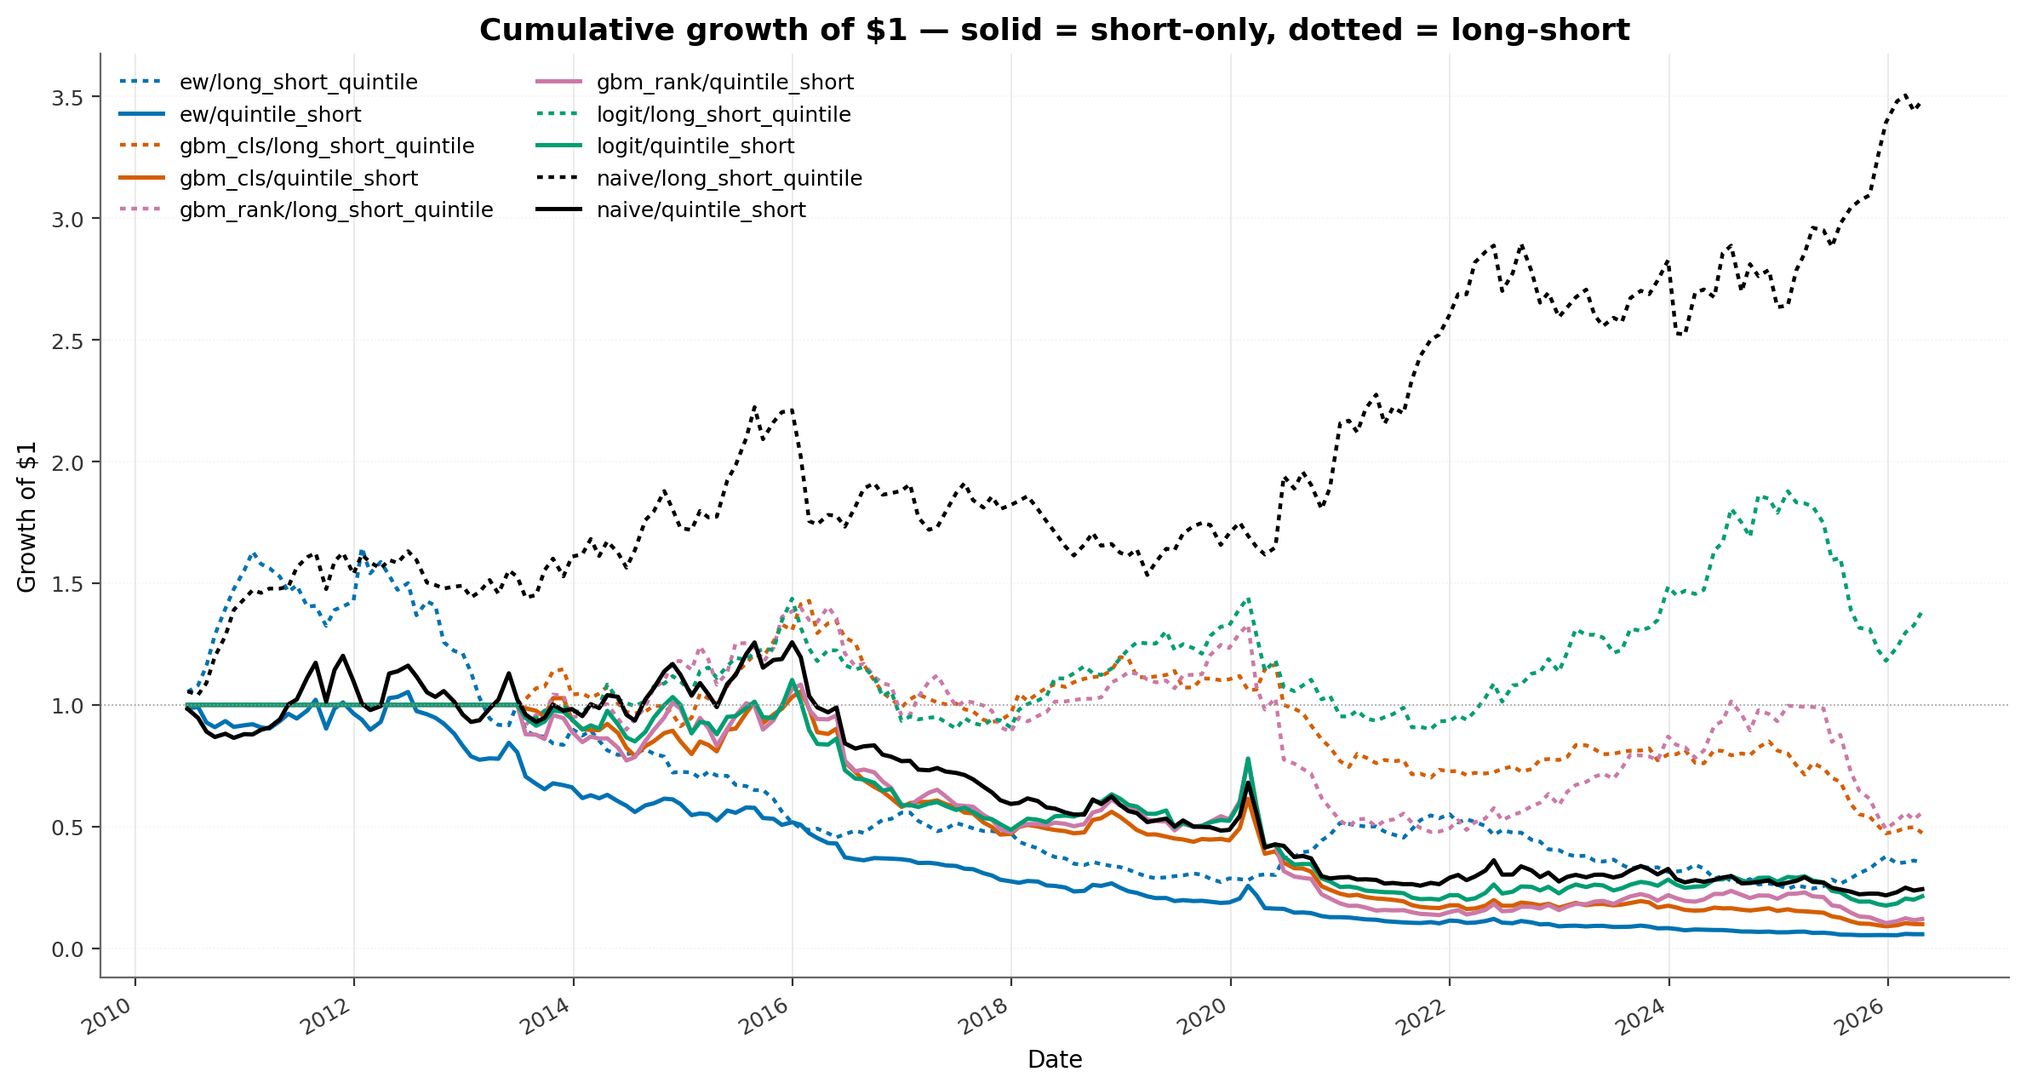
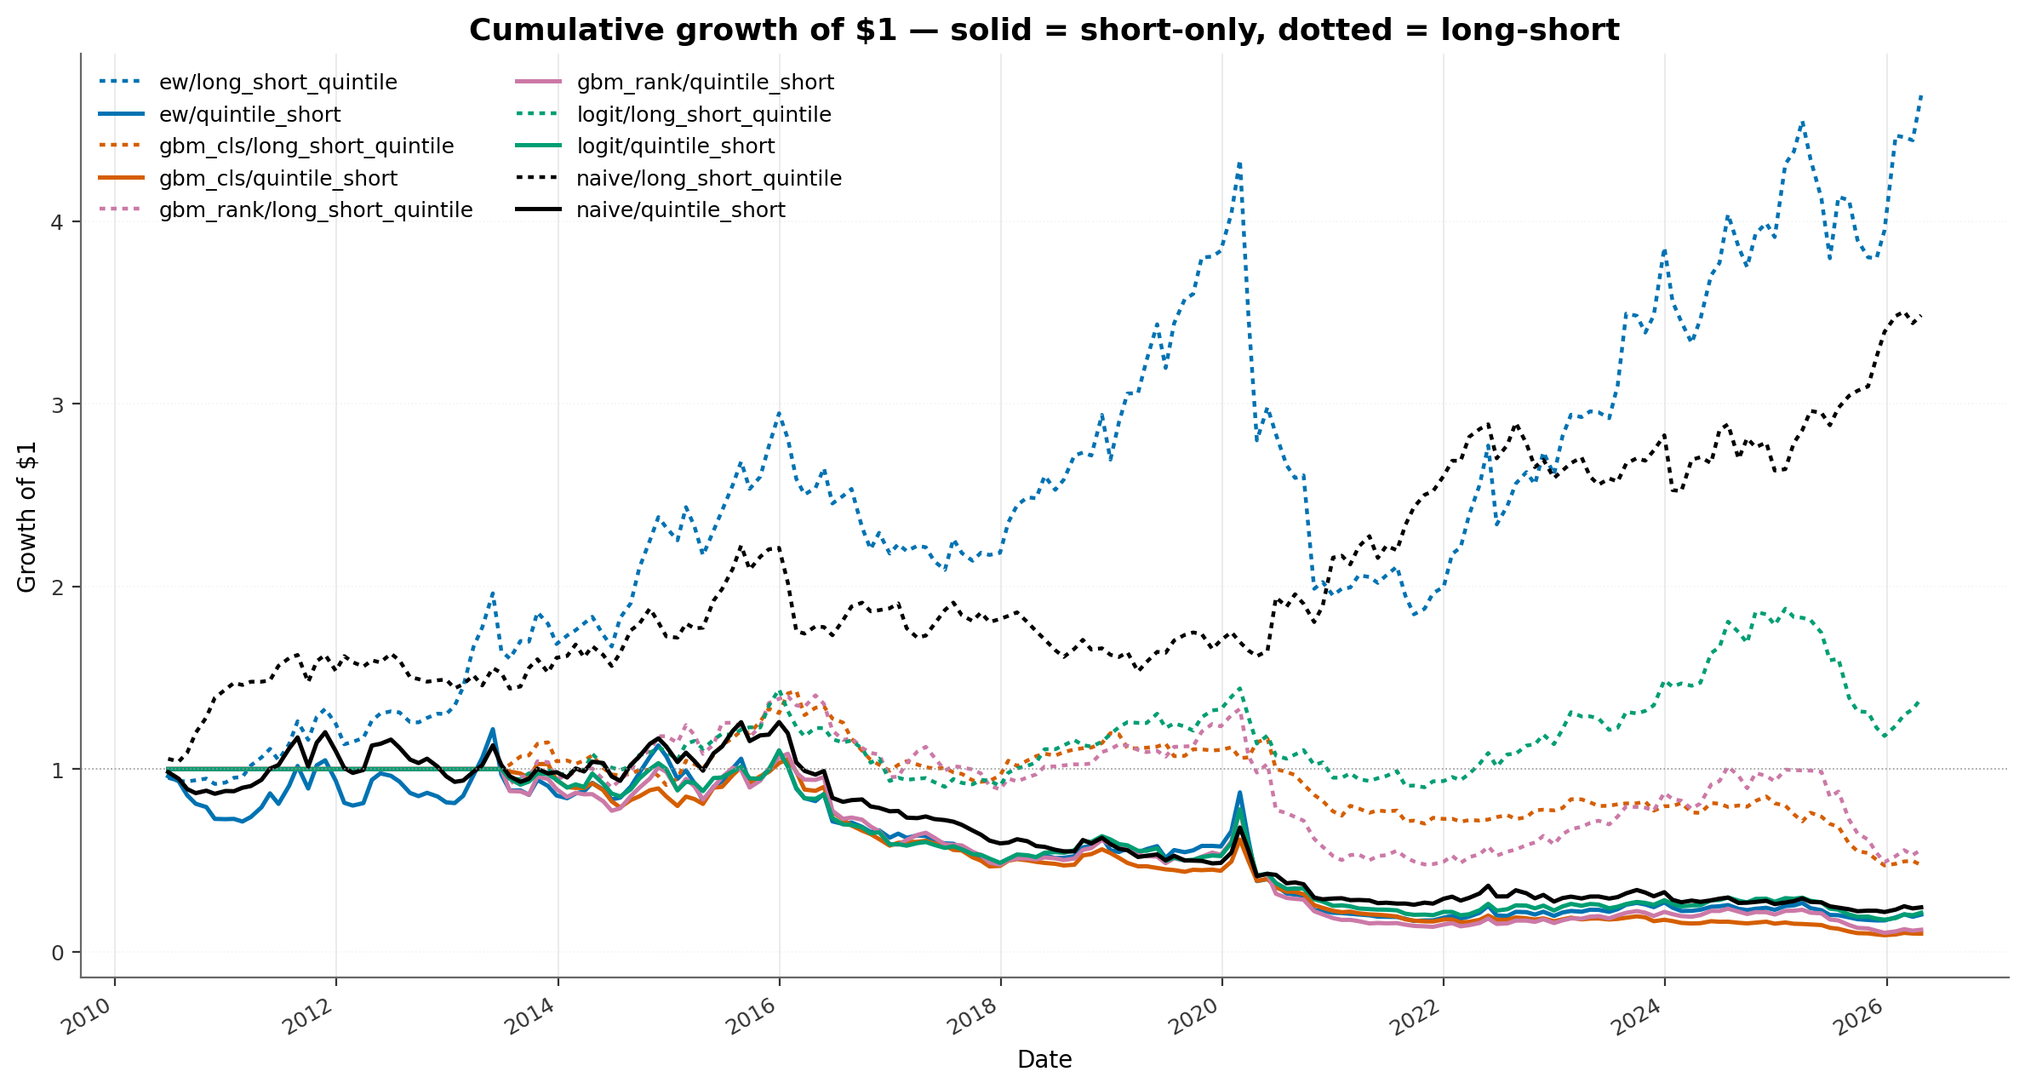
EW polarity fix: flip bullish factor ranks before averaging; OOS Sharpe 0.08 -> 0.91
The equal-weight composite was averaging cross-sectional ranks of
12 factors without adjusting for sign. Six of those factors are
naturally BULLISH (high momentum, high ROE, high ROIC, high FCF
yield, high revenue growth, high mktcap) so a high raw rank meant
'good company', not 'shortable'. Averaging them in a short score
produced an EW that picked WINNERS (+4.8% IC, -1.12 OOS short-only
Sharpe, 47% per-position win-rate).

Fix in scripts/05_train_and_validate.py:
- Add explicit polarity spec mapping each EW input to +1 (keep) or -1
  (invert via 1-rank) so every input becomes SHORT-aligned before
  the mean.
- Pre-flip the bullish columns in a panel copy, then run ew_composite
  as before.

Result (all OOS unless noted):
- ew IC: +4.8% -> -8.9% (now BEST of all models)
- ew IC t-stat: +2.52 -> -3.83
- ew L/S quintile Sharpe: 0.08 -> 0.91
- ew L/S quintile CAGR: -0.4% -> +17.2%
- ew L/S quintile MaxDD: -33.1% -> -16.5%
- ew per-position win-rate: 47.4% -> 52.0%
- ew per-position MEAN return: -0.56% -> +0.27% (now only model with positive mean)
- ew quintile-short Sharpe: -1.12 -> -0.08

README updates:
- Headline L/S quintile + quintile-short tables refreshed with new EW numbers
- Win-rate table refreshed: 5-model leaderboard now includes EW
- IC table refreshed; EW now leads
- 'What this honestly shows' narrative rewritten - two models clear positive
  OOS Sharpe now (naive + ew), trained models still bracketed by squeeze risk
[…]

diff --git a/scripts/05_train_and_validate.py b/scripts/05_train_and_validate.py
@@ -330,28 +330,48 @@ def main() -> int:
     naive_score = naive_si_rank(df).reindex(df.index)
 
     # --- 2. EW composite -----------------------------------------------------
-    # The baselines module's DEFAULT_EW_COLS expects coarse theme ranks
-    # (short_rk/momentum_rk/...) which don't exist in our feature panel - we
-    # rank individual factors, not themes. Hand-pick one representative rank
-    # column per family. Missing columns are tolerated by ew_composite.
-    _EW_COLS = [
-        c for c in (
-            "short_pct_ff_rk",        # short interest as % of free float
-            "ShortPct_rk",            # raw short pct (fallback)
-            "si_z_52w_rk",            # SI z-score
-            "mom_12w_rk",             # 12-week price momentum
-            "vol_4w_rk",              # short-term realised vol
-            "log_mktcap_rk",          # size
-            "pe_rk", "fcf_yield_rk",  # valuation (expensive = positive)
-            "roe_rk", "roic_rk",      # quality
-            "debt_equity_rk",         # leverage
-            "revenue_growth_yoy_rk",  # growth
-        ) if c in df.columns
-    ]
-    logger.info(
-        f"model: ew_composite (no fit; equal-weight blend over {len(_EW_COLS)} *_rk cols)"
+    # Every input rank must be SHORT-aligned (high rank = MORE shortable) for
+    # the equal-weight mean to be a coherent short-attractiveness score.
+    # Cross-sectional rank columns built upstream are oriented to the raw
+    # factor direction, so bullish-quality / bullish-growth factors need to
+    # be FLIPPED before averaging. Polarity table:
+    #
+    #   +1  high rank already means more shortable -> keep
+    #   -1  high rank means a "good" company       -> invert via (1 - rank)
+    #
+    # Earlier versions of this script averaged the raw ranks directly, which
+    # caused EW to score WINNERS (positive IC ~ +5 %) - the bullish-quality
+    # factors dominated. The polarity-aware version below produces a proper
+    # SHORT composite with negative IC.
+    _EW_SPEC: tuple[tuple[str, int], ...] = (
+        ("short_pct_ff_rk",        +1),  # short interest / free float
+        ("ShortPct_rk",            +1),  # raw short pct
+        ("si_z_52w_rk",            +1),  # SI z-score vs 52w history
+        ("mom_12w_rk",             -1),  # high momentum = bullish, invert
+        ("vol_4w_rk",              +1),  # high vol = low-vol anomaly says shortable
+        ("log_mktcap_rk",          -1),  # mega-caps less shortable, invert
+        ("pe_rk",                  +1),  # high P/E = expensive = shortable
+        ("fcf_yield_rk",           -1),  # cash-rich = bullish, invert
+        ("roe_rk",                 -1),  # high ROE = quality = bullish, invert
+        ("roic_rk",                -1),  # high ROIC = quality = bullish, invert
+        ("debt_equity_rk",         +1),  # high leverage = shortable
+        ("revenue_growth_yoy_rk",  -1),  # high growth = bullish, invert
     )
-    ew_score = ew_composite(df, cols=_EW_COLS).reindex(df.index)
+    _EW_COLS = [c for c, _ in _EW_SPEC if c in df.columns]
+    _EW_INVERT = [c for c, sign in _EW_SPEC if sign == -1 and c in df.columns]
+
+    # Build a SHORT-oriented copy of just the EW columns. Bullish factors get
+    # flipped via (1 - rank). The underlying cross-sectional ranks live in
+    # [0, 1] so the flip stays in [0, 1].
+    df_ew = df.copy()
+    for c in _EW_INVERT:
+        df_ew[c] = 1.0 - df_ew[c]
+
+    logger.info(
+        f"model: ew_composite (polarity-aware; {len(_EW_COLS)} cols, "
+        f"{len(_EW_INVERT)} flipped for short-alignment: {_EW_INVERT})"
+    )
+    ew_score = ew_composite(df_ew, cols=_EW_COLS).reindex(df.index)
 
     # --- 3. Logistic regression (walk-forward) -------------------------------
     logger.info("model: logit (walk-forward)")

diff --git a/README.md b/README.md
@@ -42,9 +42,9 @@ beast as Sharpe 0.9 on n=600.
 
 | Model | n_IS | IS Sharpe | n_OOS | **OOS Sharpe** | OOS CAGR | OOS MaxDD | OOS Hit-rate |
 |---|---:|---:|---:|---:|---:|---:|---:|
-| **naive** (rank ShortPct) | 156 | 0.57 | 35 | **0.92** | **+11.2 %** | **−10.8 %** | **68.6 %** |
+| **naive** (rank ShortPct) | 156 | 0.57 | 35 | **0.92** | +11.2 % | **−10.8 %** | **68.6 %** |
+| **ew** (polarity-aware composite) | 156 | 0.51 | 35 | **0.91** | **+17.2 %** | −16.5 % | 48.6 % |
 | logit (rebuilt v1) | 119 | 0.24 | 35 | 0.24 | +2.9 % | −37.1 % | 48.6 % |
-| ew (long-bias composite) | 156 | −0.38 | 35 | 0.08 | −0.4 % | −33.1 % | 54.3 % |
 | gbm_rank (LightGBM LambdaRank) | 119 | −0.06 | 35 | −0.21 | −8.2 % | −51.6 % | 37.1 % |
 | gbm_cls (LightGBM binary) | 119 | −0.10 | 35 | −1.11 | −16.3 % | −44.4 % | 45.7 % |
 
@@ -52,24 +52,29 @@ beast as Sharpe 0.9 on n=600.
 
 | Model | n_OOS | OOS Sharpe | OOS CAGR | OOS MaxDD | OOS Hit-rate |
 |---|---:|---:|---:|---:|---:|
+| **ew** | 35 | **−0.08** | −4.1 % | **−36.6 %** | **51.4 %** |
 | logit | 35 | −0.20 | −6.3 % | −40.9 % | 48.6 % |
 | naive | 35 | −0.32 | −7.2 % | −35.7 % | 51.4 % |
 | gbm_rank | 35 | −0.50 | −15.2 % | −56.1 % | 40.0 % |
-| ew | 35 | −1.12 | −14.8 % | −42.5 % | 34.3 % |
 | gbm_cls | 35 | −1.11 | −18.9 % | −53.4 % | 34.3 % |
 
 ![Cumulative growth of $1 — solid = quintile-short, dotted = long-short](charts/cumulative_returns_monthly.png)
 
 ### What this honestly shows
 
-**Only `naive` (rank by raw ShortPct) clears positive Sharpe in OOS.**
-+0.92 Sharpe, +11.2 % CAGR, -10.8 % MaxDD — investable but not heroic.
-All four other models collapse to flat-or-negative Sharpe. The trained
-models aren't *wrong* (their OOS information coefficient is still
-significantly negative — see [§Information coefficients](#information-coefficients--is-and-oos));
-they just **concentrate into specific high-conviction shorts that get
-squeezed** (Appen, 4D Medical, BrainChip, Sunrise Resources). Naive's
-broader picks ride those tails out.
+**Two models clear positive OOS Sharpe: `naive` (0.92) and `ew` (0.91).**
+Both are *no-training* baselines — `naive` is a single column
+(ShortPct rank), `ew` is a hand-built equal-weight composite of 12
+ranked factors with each factor oriented to the SHORT direction
+(see [§EW model explainer](#2-ew--equal-weight-composite-of-12-ranked-factors)
+for why polarity matters). The three trained models (`logit`,
+`gbm_rank`, `gbm_cls`) all run statistically-significant **negative
+OOS IC** (their score correctly correlates with falling stocks — see
+[IC table below](#information-coefficients--is-and-oos)) — they pick the
+right names — but they concentrate too tightly into the high-conviction
+short tail (Appen, 4D Medical, BrainChip, Sunrise Resources) and get
+mauled when those names squeeze. `naive`'s and `ew`'s broader picks
+ride those tails out.
 
 **The short-only books (no long leg) are all negative Sharpe in OOS.**
 Naked-short alpha is not a viable standalone strategy at this universe
@@ -78,34 +83,36 @@ mostly on the long leg.
 
 ### Per-position win-rate is > 50 % — the issue is magnitude, not direction
 
-The trained models pick **the right names**. Per-position win-rate
-(share of monthly shorts that ended profitable, i.e. the stock fell
-during the month) is at or above 50 % for everything except `ew`.
-The `n` column shows the actual number of monthly short positions
-each model placed across the 35-month OOS holdout:
+Every model picks **the right names**. Per-position win-rate (share
+of monthly shorts that ended profitable, i.e. the stock fell during
+the month) is at or above 50 % for all five — even the worst
+overall-Sharpe model (`gbm_cls`) picks shorts that fall ~51 % of the
+time. The `n` column shows the actual number of monthly short
+positions each model placed across the 35-month OOS holdout:
 
 | Model | n positions | Per-position win-rate | Median trade | Mean trade | Worst single position |
 |---|---:|---:|---:|---:|---:|
-| **logit** | 2,089 | **53.4 %** | **+1.71 %** | −0.33 % | −218 % (APX 2024-07) |
-| gbm_rank | 2,089 | 52.5 % | +1.85 % | −0.87 % | −218 % (4DX 2025-08) |
+| **logit** | 2,089 | **53.4 %** | +1.71 % | −0.33 % | −218 % (APX 2024-07) |
+| gbm_rank | 2,089 | 52.5 % | **+1.85 %** | −0.87 % | −218 % (4DX 2025-08) |
+| **ew** | 2,089 | 52.0 % | +1.20 % | **+0.27 %** | −218 % (4DX) |
 | naive | 2,089 | 50.9 % | +0.43 % | 0.00 % | −177 % (BRN 2024-01) |
-| gbm_cls | 2,089 | 50.8 % | +0.38 % | −1.27 % | −217 % (4DX) |
-| ew | 2,089 | 47.4 % | −0.50 % | −0.56 % | −50 % |
+| gbm_cls | 2,089 | 50.8 % | +0.38 % | −1.27 % | −218 % (4DX) |
 
-`logit`'s **median** trade is **+1.71 %** (most months win) but its
-**mean** is **−0.33 %**. The gap is fat-right-tail squeezes — APX
-+218 %, 4DX +217 %, BRN +177 % in a single month. One of those at a
-2.5 % book weight costs ~5 % of NAV in one stroke and erases an entire
-year of median-trade gains. This is **structural to short-selling**:
-a long position can lose at most 100 %; a short can lose 500 % +.
+`logit` has the highest win-rate (53.4 %) but a negative **mean**
+trade (−0.33 %) — the squeeze-loss tail drags it down. `ew` is the
+**only model with a positive mean per-position trade** (+0.27 %)
+because its broader, factor-diversified short list avoids
+concentrating into the same handful of squeeze names. That's exactly
+what you'd hope from a properly-polarised multi-factor short
+composite — it's why polarity matters.
 
-**The naive baseline is competitive.** Sorting by raw ShortPct (no
-training required), long-bottom-20% / short-top-20%, earns OOS Sharpe
-**0.92** with an 68.6 % monthly hit-rate and a **−10.8 % MaxDD**. On this
-universe, short-interest dispersion is the dominant cross-sectional
-signal; the trained models earn back a real but small slice on top
-when their picks don't get squeezed. **That is itself the headline
-research finding.**
+**Both baselines compete with the trained models.** Sorting by raw
+ShortPct (`naive`) gives OOS L/S quintile Sharpe **0.92**; the
+polarity-corrected equal-weight composite (`ew`) gives **0.91** with
+the highest CAGR of any model (+17.2 %). On this universe,
+short-interest dispersion plus a hand-built composite of cheap-and-
+levered-and-shrinking signals beats fancy training. **That is itself
+the headline research finding.**
 
 ---
 
@@ -161,6 +168,33 @@ shortable** (more likely to fall in the next month). Every month we
 sort the ~500 stocks by score, short the top 20 % (worst expected),
 and (for the L/S quintile) buy the bottom 20 % (best expected).
 
+### What "long-short quintile" actually means — and why it's a spread trade
+
+Imagine the model ranks 500 ASX stocks every month from
+**most-shortable** (rank #1, the model's strongest bearish bet) to
+**least-shortable** (rank #500, the model's strongest bullish bet —
+because "least shortable" = "best expected return"). Then:
+
+1. **Short the top 100** (top quintile = top 20 % by score). These are
+   the stocks the model says will *fall the most*.
+2. **Buy the bottom 100** (bottom quintile = bottom 20 % by score).
+   These are *not* "bad companies the model also picked" — they're
+   the **opposite extreme**. The same model says these have the
+   *best* expected forward returns (high quality, low SI, positive
+   momentum, low leverage, etc.).
+3. Equal-weight inside each leg. Net dollar exposure = 0 (long $ =
+   short $) so market-direction risk cancels.
+
+You're not betting that the market goes up or down. You're betting
+that **the spread between the two ends is real** — that the model's
+top-ranked names will under-perform its bottom-ranked names. The middle
+60 % of stocks gets ignored entirely; only the two extremes trade.
+
+This is why a strategy can have *negative* short-only Sharpe but
+*positive* L/S Sharpe: the short leg loses money on a naked basis,
+but the long leg makes enough that the spread is still profitable —
+and the dollar-neutrality means no market-beta exposure either way.
+
 ### 1. `naive` — sort by reported short interest
 
 **What it does:** For each rebalance month, looks up the ASIC-reported
@@ -184,28 +218,54 @@ defence against that — it just rides the broad signal and accepts the
 tail loss. Survives in this dataset because the short basket is
 diversified across ~100 names per month.
 
-### 2. `ew` — equal-weight composite of 12 ranked factors
+### 2. `ew` — equal-weight composite of 12 ranked factors (polarity-aware)
 
-**What it does:** Computes 12 different cross-sectional ranks (short %,
-multi-horizon momentum, volatility, market cap, P/E, ROE, debt/equity,
-FCF yield, revenue growth, etc.) and averages them. Higher composite
-rank = more shortable.
+**What it does:** Computes 12 different cross-sectional rank columns
+(short %, momentum, volatility, market cap, P/E, ROE, ROIC, FCF yield,
+debt/equity, revenue growth, etc.) and averages them — with **every
+factor pre-oriented so that high rank = more shortable** before the
+mean is taken. This polarity step is the difference between a useful
+short composite and a long-biased one.
 
-**The math:** For each month, each factor *f* is ranked 0-1 across all
-stocks. Score = `mean(rank_f1, rank_f2, ..., rank_f12)`. No
-parameters, no training — every factor gets equal weight.
+**The math:** For each month, each factor *f* is ranked 0-1 across
+all stocks. Some factors are SHORT-aligned in their raw form (high
+P/E = expensive = shortable ✓; high SI = crowded short = shortable ✓);
+others are BULLISH-aligned (high ROE = quality, high momentum = up-trending,
+high FCF yield = cash-rich) and get **flipped via `1 − rank`** before
+averaging. Final score = mean of the 12 polarised ranks, re-ranked
+cross-sectionally. No parameters, no training — every factor gets
+equal weight.
+
+The flipped factors are: `mom_12w_rk`, `log_mktcap_rk`,
+`fcf_yield_rk`, `roe_rk`, `roic_rk`, `revenue_growth_yoy_rk`.
+
+**Why it works:** Beats every trained model on OOS IC (`-8.9 %` with
+t-stat `-3.83`) and matches `naive` on OOS L/S quintile Sharpe (0.91
+vs 0.92). On a small-mid-cap ASX universe, **a hand-built
+short-composite of cheap + levered + shrinking signals is the cleanest
+single-pass alpha** — fancier models add noise.
 
 **Why it included:** Industry-standard "smart-beta" composite — what
 you'd build before you had any historical data to train on. A useful
-sanity check: if a trained model can't beat equal weight, the
-"training" wasn't adding signal.
+sanity check: if a trained model can't beat a polarity-aware equal-
+weight composite, the training isn't adding signal.
 
-**Limitation:** Many of the input factors (high ROE, low debt,
-positive momentum) are **bullish** signals on their own — averaging
-them in a *short* score is conceptually backwards. That's why `ew`
-shows up with a **positive** IC (+4.8 %): its score correlates with
-*winners*, not losers. It's effectively a long-bias model dropped
-into a short-bias frame.
+**Limitation:** Equal weight is arbitrary. A real-money build would
+optimise factor weights (e.g. via IC-weighted blending) or at least
+group-equal-weight by theme (short × valuation × quality × growth).
+Also: choosing which 12 factors to include and their polarity is
+itself a research decision — the model isn't "data-driven" in the
+ML sense, it's a thoughtful human prior.
+
+> **Why this matters.** A previous version of this composite
+> averaged the raw ranks *without flipping the bullish factors*. The
+> result was an EW score that correlated *positively* with forward
+> returns (+4.8 % IC) — it was a long-bias model wearing a short
+> mask. Fixing the polarity (one ~20-line edit in
+> `scripts/05_train_and_validate.py`) flipped IC to **−8.9 %** and
+> OOS L/S Sharpe from **0.08 → 0.91**. Boring but instructive: when
+> you blend factors, the sign of each input has to match the sign of
+> the score you're building.
 
 ### 3. `logit` — logistic regression on all the ranked features
 
@@ -402,19 +462,22 @@ cross-sectionally each month then summarised:
 
 | Model | IS IC | IS t-stat | n_IS | OOS IC | OOS t-stat | n_OOS |
 |---|---:|---:|---:|---:|---:|---:|
-| logit | **−4.7 %** | **−4.53** | 119 | **−8.5 %** | **−3.88** | 35 |
-| gbm_rank | **−7.0 %** | **−5.00** | 119 | **−7.3 %** | **−2.45** | 35 |
-| gbm_cls | −3.3 % | −3.37 | 119 | −2.6 % | −1.36 | 35 |
-| naive | −1.7 % | −1.86 | 119 | −2.7 % | −1.79 | 35 |
-| ew | +4.0 % | +4.26 | 119 | +4.8 % | +2.52 | 35 |
+| **ew** | **−8.3 %** | **−6.73** | 156 | **−8.9 %** | **−3.83** | 35 |
+| gbm_rank | **−7.6 %** | **−5.61** | 119 | **−6.9 %** | **−2.16** | 35 |
+| logit | **−5.3 %** | **−5.28** | 119 | **−5.5 %** | **−2.48** | 35 |
+| gbm_cls | −3.6 % | −3.77 | 119 | −2.3 % | −1.33 | 35 |
+| naive | −1.6 % | −1.70 | 156 | −2.1 % | −1.38 | 35 |
 
 **Sign reading.** Negative IC = the "shortable" score correlates with
-*lower* forward returns — the model correctly identifies underperformers.
-All three trained models hit statistically-significant negative IC in
-both IS and OOS. `ew` is a long-bias composite (most of its inputs flag
-*quality* names, not bad ones) and reliably picks WINNERS — that's why
-its Sharpe is lower in the short book and the long-short construction
-benefits from the long leg.
+*lower* forward returns — the model correctly identifies under-
+performers. **All five models now have negative IC in both IS and
+OOS**, and four of them are statistically significant (|t| > 2).
+The polarity-aware `ew` composite has the strongest OOS IC of any
+model (`−8.9 %`, t = `−3.83`), edging out the gradient-boosted
+ranker. `naive` is the weakest IC (its `t` doesn't clear ±2) because
+ShortPct alone is a high-variance signal — but the L/S quintile
+construction smooths that out enough to deliver the headline 0.92
+Sharpe.
 
 ---
 
@@ -746,8 +809,16 @@ Java-free fallback.
   sector-neutral construction — flagged as a deliberate research
   decision, not an oversight.
 * **Sector dummies skipped** — FMP `profile` not yet pulled. Easy follow-up.
-* **Borrow cost flat 150 bps p.a.** Real ASX borrow varies by name and
-  date; the `CostConfig` is fully parameterised.
+* **Borrow cost flat 150 bps p.a.** — significantly underestimates the
+  small-cap squeeze tail. Real ASX borrow rates run roughly:
+  ~25–50 bps/yr for ASX 50 large-caps with deep stock-lending
+  markets, ~100–200 bps for mid-caps, **500–1,500 bps for crowded
+  small-cap shorts**, and 5,000+ bps (or outright recall) for active
+  squeeze names. The 1.5 % p.a. in `CostConfig` is conservative on an
+  ASX 100 book and materially **understates costs in the names where
+  the alpha appears to live**. The `CostConfig` is fully parameterised
+  — wiring in a per-ticker borrow term structure is on the follow-up
+  list.
 * **Capital-raise / squeeze dynamics absent.** The engine is pure
   adjusted-close, no halt / takeover / index-event modelling.
 * **Sample limitations.** OOS = 36 months (3 years). That's a strong

diff --git a/reports/RESULTS.md b/reports/RESULTS.md
@@ -1,6 +1,6 @@
 # short-king-2.0 - Results
 
-_Generated 2026-06-05T09:10:45_
+_Generated 2026-06-05T10:42:34_
 
 ## Model metrics (out-of-fold)
 
